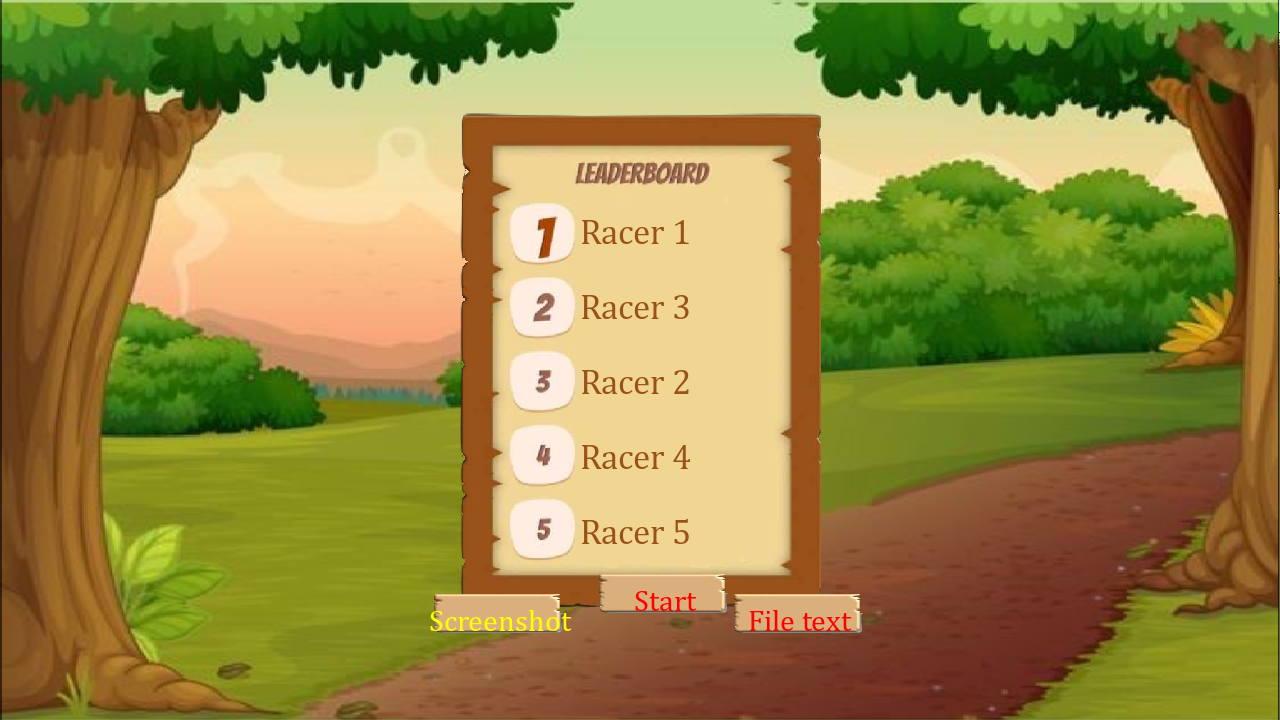
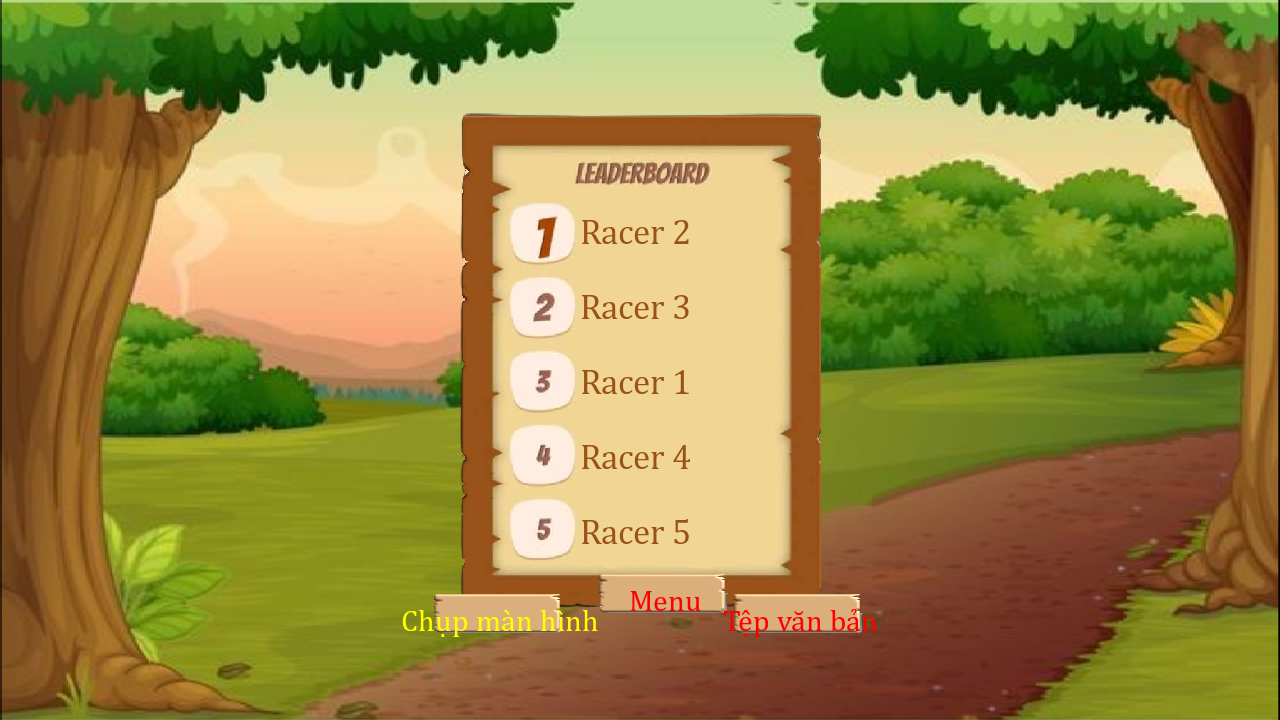
RacingGameBetting

diff --git a/leaderboard.py b/leaderboard.py
@@ -2,6 +2,7 @@
 import pygame #game
 #import sys
 from button import ButtonA
+import game_text_sources as g 
 pygame.init()
 
 #import pyautogui  #screenshot
@@ -34,7 +35,7 @@ def filetxt(): #chuyển file screen
     pygame.display.set_caption("File text")
 
     #chú ý
-    CHOOSE_TEXT = pygame.font.SysFont('cambria', 30).render("Choose an image (obligatory)", True, "white")
+    CHOOSE_TEXT = pygame.font.SysFont('cambria', 30).render(g.lg_list[104], True, "white")
     CHOOSE_RECT = CHOOSE_TEXT.get_rect(center=(670, 600))
     SCREEN.blit(CHOOSE_TEXT, CHOOSE_RECT)
     pygame.display.update()
@@ -47,7 +48,7 @@ def filetxt(): #chuyển file screen
     #     if os.path.isfile(img_path) and img_path.endswith(('.png', '.jpg', '.jpeg', '.bmp', '.gif', '.JPG')):
     #         iii=True
 
-    img_path = filedialog.askopenfilename(title="Open a .png or .jpg file")
+    img_path = filedialog.askopenfilename(title=g.lg_list[106])
     if not (os.path.isfile(img_path) and img_path.endswith(('.png', '.jpg', '.jpeg', '.bmp', '.gif', '.JPG'))):
         return
 
@@ -63,16 +64,16 @@ def filetxt(): #chuyển file screen
         SCREEN.blit(picture , (350,100))
 
 
-        FILE_BACK = ButtonA(image=None, pos = (640,460), text_input="BACK", font=pygame.font.SysFont('cambria', 30), base_color="White", hovering_color="green")
+        FILE_BACK = ButtonA(image=None, pos = (640,460), text_input=g.lg_list[124], font=pygame.font.SysFont('cambria', 30), base_color="White", hovering_color="green")
 
         FILE_BACK.changeColor(FILE_MOUSE_POS)
         FILE_BACK.update(SCREEN)
 
-        PC_TEXT = pygame.font.SysFont('cambria', 30).render("SELECTED PHOTO:", True, "Yellow")
+        PC_TEXT = pygame.font.SysFont('cambria', 30).render(g.lg_list[108], True, "Yellow")
         PC_RECT = PC_TEXT.get_rect(center=(500, 50))
         SCREEN.blit(PC_TEXT, PC_RECT)
 
-        FILE_SAVE = ButtonA(image=None, pos = (300,460), text_input="SAVE TO TEXT", font=pygame.font.SysFont('cambria', 30), base_color="White", hovering_color="green")
+        FILE_SAVE = ButtonA(image=None, pos = (300,460), text_input=g.lg_list[126], font=pygame.font.SysFont('cambria', 30), base_color="White", hovering_color="green")
 
         FILE_SAVE.changeColor(FILE_MOUSE_POS)
         FILE_SAVE.update(SCREEN)
@@ -124,18 +125,18 @@ def filetxt(): #chuyển file screen
                         root.destroy()
                     my_text = Text(root, width=40, height=10, font=("Helvetica", 16))   #hiển thị & sửa txt
                     my_text.pack(pady=20)
-                    txt_button = Button(root,text= "Click to export the selected image to text", command = img_to_txt)
+                    txt_button = Button(root,text= g.lg_list[110], command = img_to_txt)
                     txt_button.pack(pady=20)
-                    open_button = Button(root,text= "Open File", command = open_file)
+                    open_button = Button(root,text= g.lg_list[112], command = open_file)
                     open_button.pack(pady=20)
-                    save_button = Button(root,text= "Save File", command = save_file)
+                    save_button = Button(root,text= g.lg_list[114], command = save_file)
                     save_button.pack(pady=20)  
-                    quit_button = Button(root, text="Quit", command=tk_quit).pack(pady=20)     
+                    quit_button = Button(root, text=g.lg_list[8], command=tk_quit).pack(pady=20)     
                     root.protocol("WM_DELETE_WINDOW", tk_quit)
                     root.mainloop()
                      
                     #thông báo thành công
-                    CPL_TEXT = pygame.font.SysFont('cambria', 30).render("Complete.", True, "white")
+                    CPL_TEXT = pygame.font.SysFont('cambria', 30).render(g.lg_list[116], True, "white")
                     CPL_RECT = CPL_TEXT.get_rect(center=(300, 500))
                     SCREEN.blit(CPL_TEXT, CPL_RECT)
 
@@ -193,17 +194,17 @@ def main_BXH(finished_racers): #main BXH screen
         ST = pygame.image.load("./assets/BXH/button00.png")
         ST = pygame.transform.scale(ST, (150, 170))
         Start_button = ButtonA(image=ST, pos = (665, 600), 
-                       text_input="Start", font=pygame.font.SysFont('cambria', 30), base_color="red", hovering_color="yellow")
+                       text_input="Menu", font=pygame.font.SysFont('cambria', 30), base_color="red", hovering_color="yellow")
         
         Scr = pygame.image.load("./assets/BXH/button00.png")
         Scr = pygame.transform.scale(Scr, (150, 170))
         Screenshot_button = ButtonA(image=Scr, pos = (500,620), 
-                       text_input="Screenshot", font=pygame.font.SysFont('cambria', 30), base_color="red", hovering_color="yellow")
+                       text_input=g.lg_list[118], font=pygame.font.SysFont('cambria', 30), base_color="red", hovering_color="yellow")
         
         file = pygame.image.load("./assets/BXH/button00.png")
         file = pygame.transform.scale(file, (150, 170))
         filetxt_button = ButtonA(image=file, pos = (800,620), 
-                       text_input="File text", font=pygame.font.SysFont('cambria', 30), base_color="red", hovering_color="yellow")
+                       text_input=g.lg_list[120], font=pygame.font.SysFont('cambria', 30), base_color="red", hovering_color="yellow")
 
         #leaderboard text
         for i in range(5):
@@ -246,18 +247,18 @@ def main_BXH(finished_racers): #main BXH screen
                     path = filedialog.asksaveasfilename(defaultextension='.png',
                                                                       filetypes=[
                                                                           ("PNG file", ".png"),
-                                                                      ],title='Save image as (obligatory)')
+                                                                      ],title=g.lg_list[122])
                     # Save image
                     while not path or os.path.splitext(path)[1] != ".png":
                         path = filedialog.asksaveasfilename(defaultextension='.png',
                                                                       filetypes=[
                                                                           ("PNG file", ".png"),
-                                                                      ],title='Save image as (obligatory)')
+                                                                      ],title=g.lg_list[122])
                     pygame.image.save(pct, path)
                     
                     
                     #thông báo hoàn thành
-                    CPL_TEXT = pygame.font.SysFont('cambria', 30).render("Complete.", True, "white")
+                    CPL_TEXT = pygame.font.SysFont('cambria', 30).render(g.lg_list[116], True, "white")
                     CPL_RECT = CPL_TEXT.get_rect(center=(330, 600))
                     SCREEN.blit(CPL_TEXT, CPL_RECT)
                     pygame.display.update()

diff --git a/menu.py b/menu.py
@@ -177,13 +177,13 @@ def environment_display():
         ev=lg_list[20]
     #Hàm chọn Yes/No (Môi trường)
 def evm_choosing():
-    global chr_set_active, ev_choosing, ev, play_button_active, actual_ev
+    global chr_set_active, ev_choosing, ev, play_button_active, distance_active
     yes=button(340,600,180,40,1,2.5,lg_list[24])
     no=button(760,600,180,40,1,2.5,lg_list[26])
     if ev_choosing:   
         draw_rect(215,498.25,850,191.75,113,(0,0,0),30,lg_list[28].replace('\n',ev))
         if yes.draw_button():
-            chr_set_active=True
+            distance_active=True
             play_button_active=False
             ev_choosing=False
         if no.draw_button():
@@ -200,7 +200,7 @@ def character_set_display():
     back=button(30,30,180,40,1,2.5,lg_list[14])   
     draw_rect(415,30,450,80,111,(0,0,0),22.5,lg_list[40])   
     if back.draw_button():
-        play_button_active=True
+        distance_active=True
         chr_set_active=False
         chr_set_choosing=False
     if set1.draw_button():
@@ -225,14 +225,16 @@ def character_set_display():
         chr_set_index=5
     #Hàm chọn Yes/No/More Info (set nhân vật)
 def chr_choosing():
-    global chr_set_active, chr_set_choosing, chr_set, distance_active, chr_set_info, chr_set_info_button, chr_set_index
+    global chr_set_active, chr_set_choosing, chr_set, distance_active, chr_set_info, chr_set_info_button, chr_set_index, menu_running
     yes=button(295,620,180,40,1,2.5,lg_list[24])
     no=button(505,620,180,40,1,2.5,lg_list[26])
     chr_set_info_button=button(715,620,270,40,1,2.5,lg_list[46])
     if chr_set_choosing:
         draw_rect(215,540,850,150,113,(0,0,0),22.5,chr_set)
         if yes.draw_button():
-            distance_active=True
+            initial_setup()
+            pygame.mixer_music.stop()
+            menu_running=False
             chr_set_active=False
             chr_set_choosing=False
         if no.draw_button():
@@ -294,17 +296,24 @@ def chr_information():
         unit=4*(chr-1)+2
     #Hàm chọn độ dài đường đua
 def distance_display():
-    global distance_active, chr_set_active, distance_choosing, distance
+    global distance_active, chr_set_active, distance_choosing, distance, ev, play_button_active
+    ev_count=0
+    if ev==lg_list[16]:
+        ev_count=0
+    elif ev==lg_list[18]:
+        ev_count=1
+    else:
+        ev_count=2
     dis1=button(29,388.25,388,80,1,22.5,lg_list[48])
     dis2=button(446,388.25,388,80,1,22.5,lg_list[50])
     dis3=button(863,388.25,388,80,1,22.5,lg_list[52])
     back=button(30,30,180,40,1,2.5,lg_list[14])
-    draw_rect(29,140,388,218.25,12,(0,0,0),22.5,'')
-    draw_rect(446,140,388,218.25,15,(0,0,0),22.5,'')
-    draw_rect(863,140,388,218.25,18,(0,0,0),22.5,'')
+    draw_rect(29,140,388,218.25,130+ev_count,(0,0,0),22.5,'')
+    draw_rect(446,140,388,218.25,133+ev_count,(0,0,0),22.5,'')
+    draw_rect(863,140,388,218.25,136+ev_count,(0,0,0),22.5,'')
     draw_rect(415,30,450,80,111,(0,0,0),22.5,lg_list[54])   
     if back.draw_button():
-        chr_set_active=True
+        play_button_active=True
         distance_active=False
         distance_choosing=False
     if dis1.draw_button():
@@ -318,15 +327,13 @@ def distance_display():
         distance=lg_list[52]   
     #Hàm chọn Yes/No(độ dài đường đua)
 def dis_choosing():
-    global distance_choosing, distance_active, distance, menu_running
+    global distance_choosing, distance_active, distance, chr_set_active
     yes=button(360,600,180,40,1,2.5,lg_list[24])
     no=button(740,600,180,40,1,2.5,lg_list[26])
     if distance_choosing:
         draw_rect(240,498.25,800,191.75,113,(0,0,0),30,lg_list[56].replace('\n',distance))
         if yes.draw_button():
-            initial_setup()
-            pygame.mixer_music.stop()
-            menu_running=False
+            chr_set_active=True
             distance_active=False
             distance_choosing=False
         if no.draw_button():
@@ -606,10 +613,10 @@ def go_to_distance_selection():
     global menu_active, play_button_active, ev_choosing, ev, chr_set_active, chr_set_choosing, chr_set, chr_set_index, distance_active
     ev_choosing=False
     menu_active=False
-    chr_set_active=False
+    chr_set_active=True
     chr_set_choosing=False
     play_button_active=False
-    distance_active=True
+    distance_active=False
     
 #Chạy menu
 def menu():

diff --git a/game_text_sources.py b/game_text_sources.py
@@ -88,6 +88,18 @@ lg_list=['English','Tiếng Việt', #0
          'Money Bet: $\n', 'Số tiền đã cược: $\n', #98
          'Winning Bet Money: $\n', 'Số tiền cược thắng: $\n', #100
          'Lost Bet Money: $\n', 'Số tiền cược thua: $\n', #102
+         'Choose an image (obligatory)', 'Chọn hình ảnh (bắt buộc)', #104
+         'Open a .png or .jpg file', 'Mở tệp .png hoặc jpg', #106
+         'SELECTED PHOTO:', 'ẢNH ĐÃ CHỌN', #108
+         'Click to export the selected image to text', 'Nhấn để xuất ảnh đã chọn thành văn bản', #110
+         'Open File', 'Mở Tệp', #112
+         'Save File', 'Lưu Tệp', #114
+         'Complete.', 'Hoàn thành.', #116
+         'Screenshot', 'Chụp màn hình', #118
+         'File text', 'Tệp văn bản', #120
+         'Save image as (obligatory)', 'Lưu ảnh thành (bắt buộc)', #122
+         'BACK', 'QUAY LẠI', #124
+         'SAVE TO TEXT', 'LƯU THÀNH VĂN BẢN', #126
          ] 
 character_name=['PyBird','PyCat','PyDog','PyBear','PyFox','PyChibi Archer','PyChibi Enchantress','PyChibi Knight','PyChibi Swordsman',
                 'PyChibi Wizard','PyArcher','PyCommander','PyBlueKnight','PyRedKnight','PySamurai','PyKarasu Tengu','PyKitsune',
@@ -130,9 +142,9 @@ image_list=[r".\Assets\UI\Button\UI_Flat_Button_Large_Lock_01a1.png", r".\Assets
             r".\Assets\Environment\Forest\forest0.png", r".\Assets\Environment\Forest\forest1.png", r".\Assets\Environment\Forest\forest2.png", #4
             r".\Assets\Environment\Grassland\grassland0.png", r".\Assets\Environment\Grassland\grassland1.png", r".\Assets\Environment\Grassland\grassland2.png", #7
             r".\Assets\Environment\Sunset\sunset0.png", r".\Assets\Environment\Sunset\sunset1.png", r".\Assets\Environment\Sunset\sunset2.png", #10
-            r".\Assets\Track_Distance\Short\forest_short0.png", r".\Assets\Track_Distance\Short\forest_short1.png", r".\Assets\Track_Distance\Short\forest_short2.png", #13
-            r".\Assets\Track_Distance\Medium\forest_medium0.png", r".\Assets\Track_Distance\Medium\forest_medium1.png", r".\Assets\Track_Distance\Medium\forest_medium2.png", #16
-            r".\Assets\Track_Distance\Long\forest_long0.png", r".\Assets\Track_Distance\Long\forest_long1.png", r".\Assets\Track_Distance\Long\forest_long2.png", #19
+            "", "", "", #13
+            "", "", "", #16
+            "", "", "", #19
             r".\Assets\Character_Set_Image\Animal\Animal0.png", r".\Assets\Character_Set_Image\Animal\Animal1.png", r".\Assets\Character_Set_Image\Animal\Animal2.png", #22
             r".\Assets\Character_Set_Image\Chibi\Chibi0.png", r".\Assets\Character_Set_Image\Chibi\Chibi1.png", r".\Assets\Character_Set_Image\Chibi\Chibi2.png", #25
             r".\Assets\Character_Set_Image\Medival\medival0.png", r".\Assets\Character_Set_Image\Medival\medival1.png", r".\Assets\Character_Set_Image\Medival\medival2.png", #28
@@ -169,4 +181,8 @@ image_list=[r".\Assets\UI\Button\UI_Flat_Button_Large_Lock_01a1.png", r".\Assets
             r".\Assets\minigame_image\minigame2_0.png", r".\Assets\minigame_image\minigame2_1.png", r".\Assets\minigame_image\minigame2_2.png", #121
             r".\Assets\minigame_image\minigame3_0.png", r".\Assets\minigame_image\minigame3_1.png", r".\Assets\minigame_image\minigame3_2.png", #124
             r".\Assets\minigame_image\minigame4_0.png", r".\Assets\minigame_image\minigame4_1.png", r".\Assets\minigame_image\minigame4_2.png", #127
-            r".\assets\Menu_Background\history_list1.jpg",]
+            r".\assets\Menu_Background\history_list1.jpg", #129
+            r".\assets\Track_Distance\Short\forest_short.png", r".\assets\Track_Distance\Short\grassland_short.png", r".\assets\Track_Distance\Short\sunset_short.png", #130
+            r".\assets\Track_Distance\Medium\forest_medium.png", r".\assets\Track_Distance\Medium\grassland_medium.png", r".\assets\Track_Distance\Medium\sunset_medium.png", #133
+            r".\assets\Track_Distance\Long\forest_long.png", r".\assets\Track_Distance\Long\grassland_long.png", r".\assets\Track_Distance\Long\sunset_long.png", #136
+            ]
